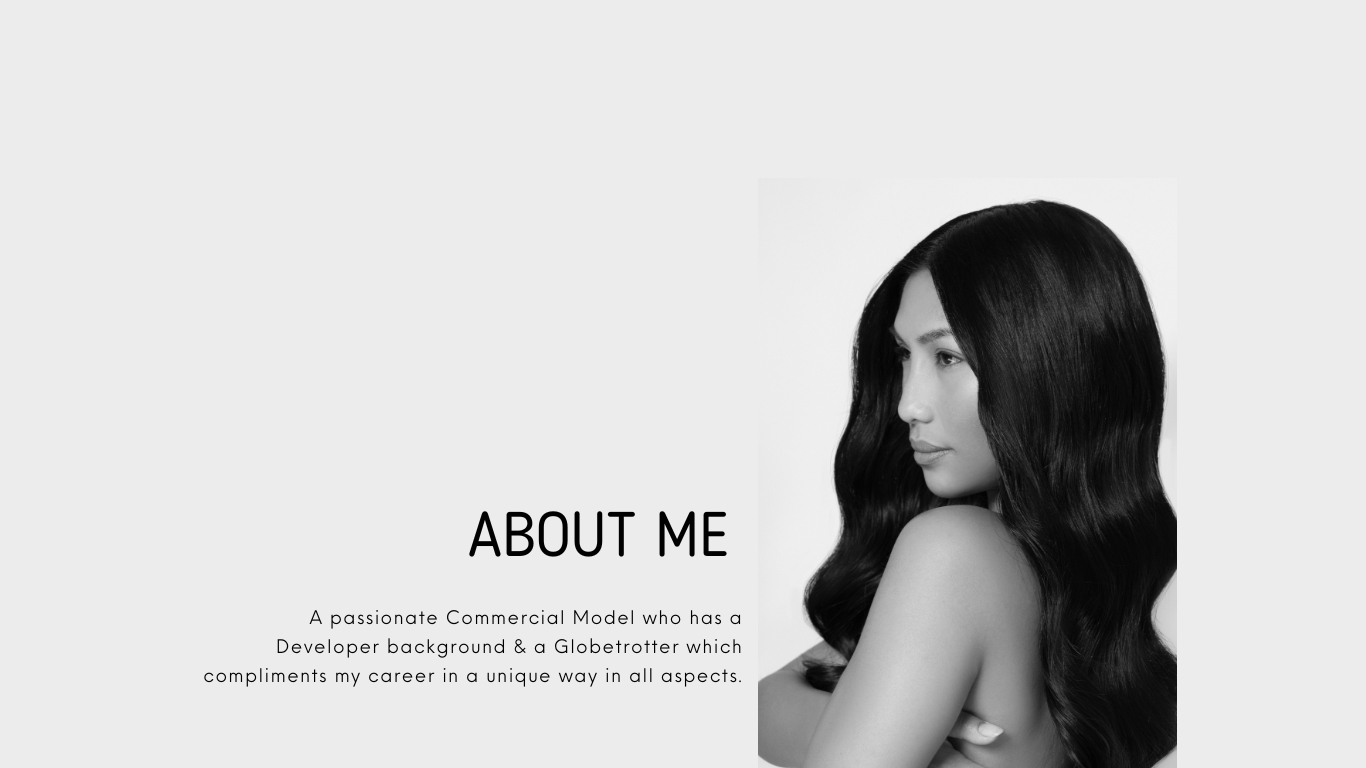
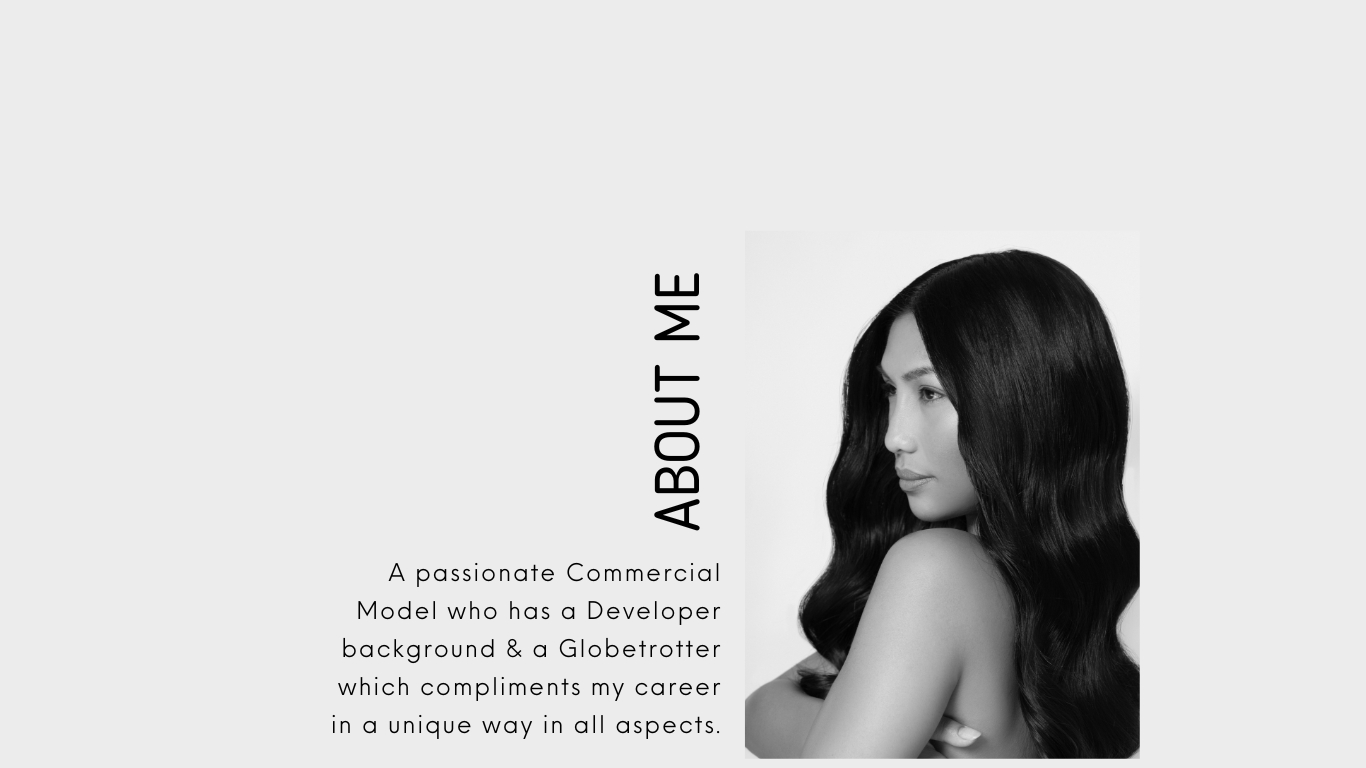
margin stylemag

Changed region(s): [[0.1537, 0.25, 0.8609, 1.0], [0.3075, 0.3438, 0.5227, 0.75]]

diff --git a/style.css b/style.css
@@ -293,8 +293,8 @@ button.navbar-toggler{
 }
 
 .stylemag {
-  height: 400px; 
-  background-position: right;
+  height: 768px; 
+  background-position: center;
   background-repeat: no-repeat;
   background-size: cover;
 }
@@ -336,11 +336,10 @@ button.navbar-toggler{
   .send-button {
     width: 100%;
   }
-  p.stylemag {
-    height: 200px; 
-    width: 1500px;
-  }
 
+  .stylemag {
+    padding: 100px;
+  }
 }
 
 @media screen and (max-width: 569px) {
@@ -391,8 +390,7 @@ button.navbar-toggler{
     height: 900px;
   }
   .stylemag {
-    height: 250px; 
-    width: 150px;
+    padding: 300px;
   }
 }
 
@@ -404,11 +402,10 @@ button.navbar-toggler{
   #contact{
     height: 900px;
   }
-}
 
-.stylemag {
-  height: 200px; 
-  width: 120px;
+  .stylemag {
+    padding: 300px;
+  }
 }
 
 a{
@@ -479,3 +476,6 @@ section {
   width: 100px; 
   margin: auto;
 }
+
+
+

diff --git a/index.html b/index.html
@@ -82,7 +82,7 @@
                     An Aspiring Individual.
                 </div>
             </div>
-          <p class="stylemag" style="background-image: url('images/About.jpg');"></p>
+          <p class="stylemag" style="background-image: url('images/about.jpg');"></p>
         </div>
       
     </div>
